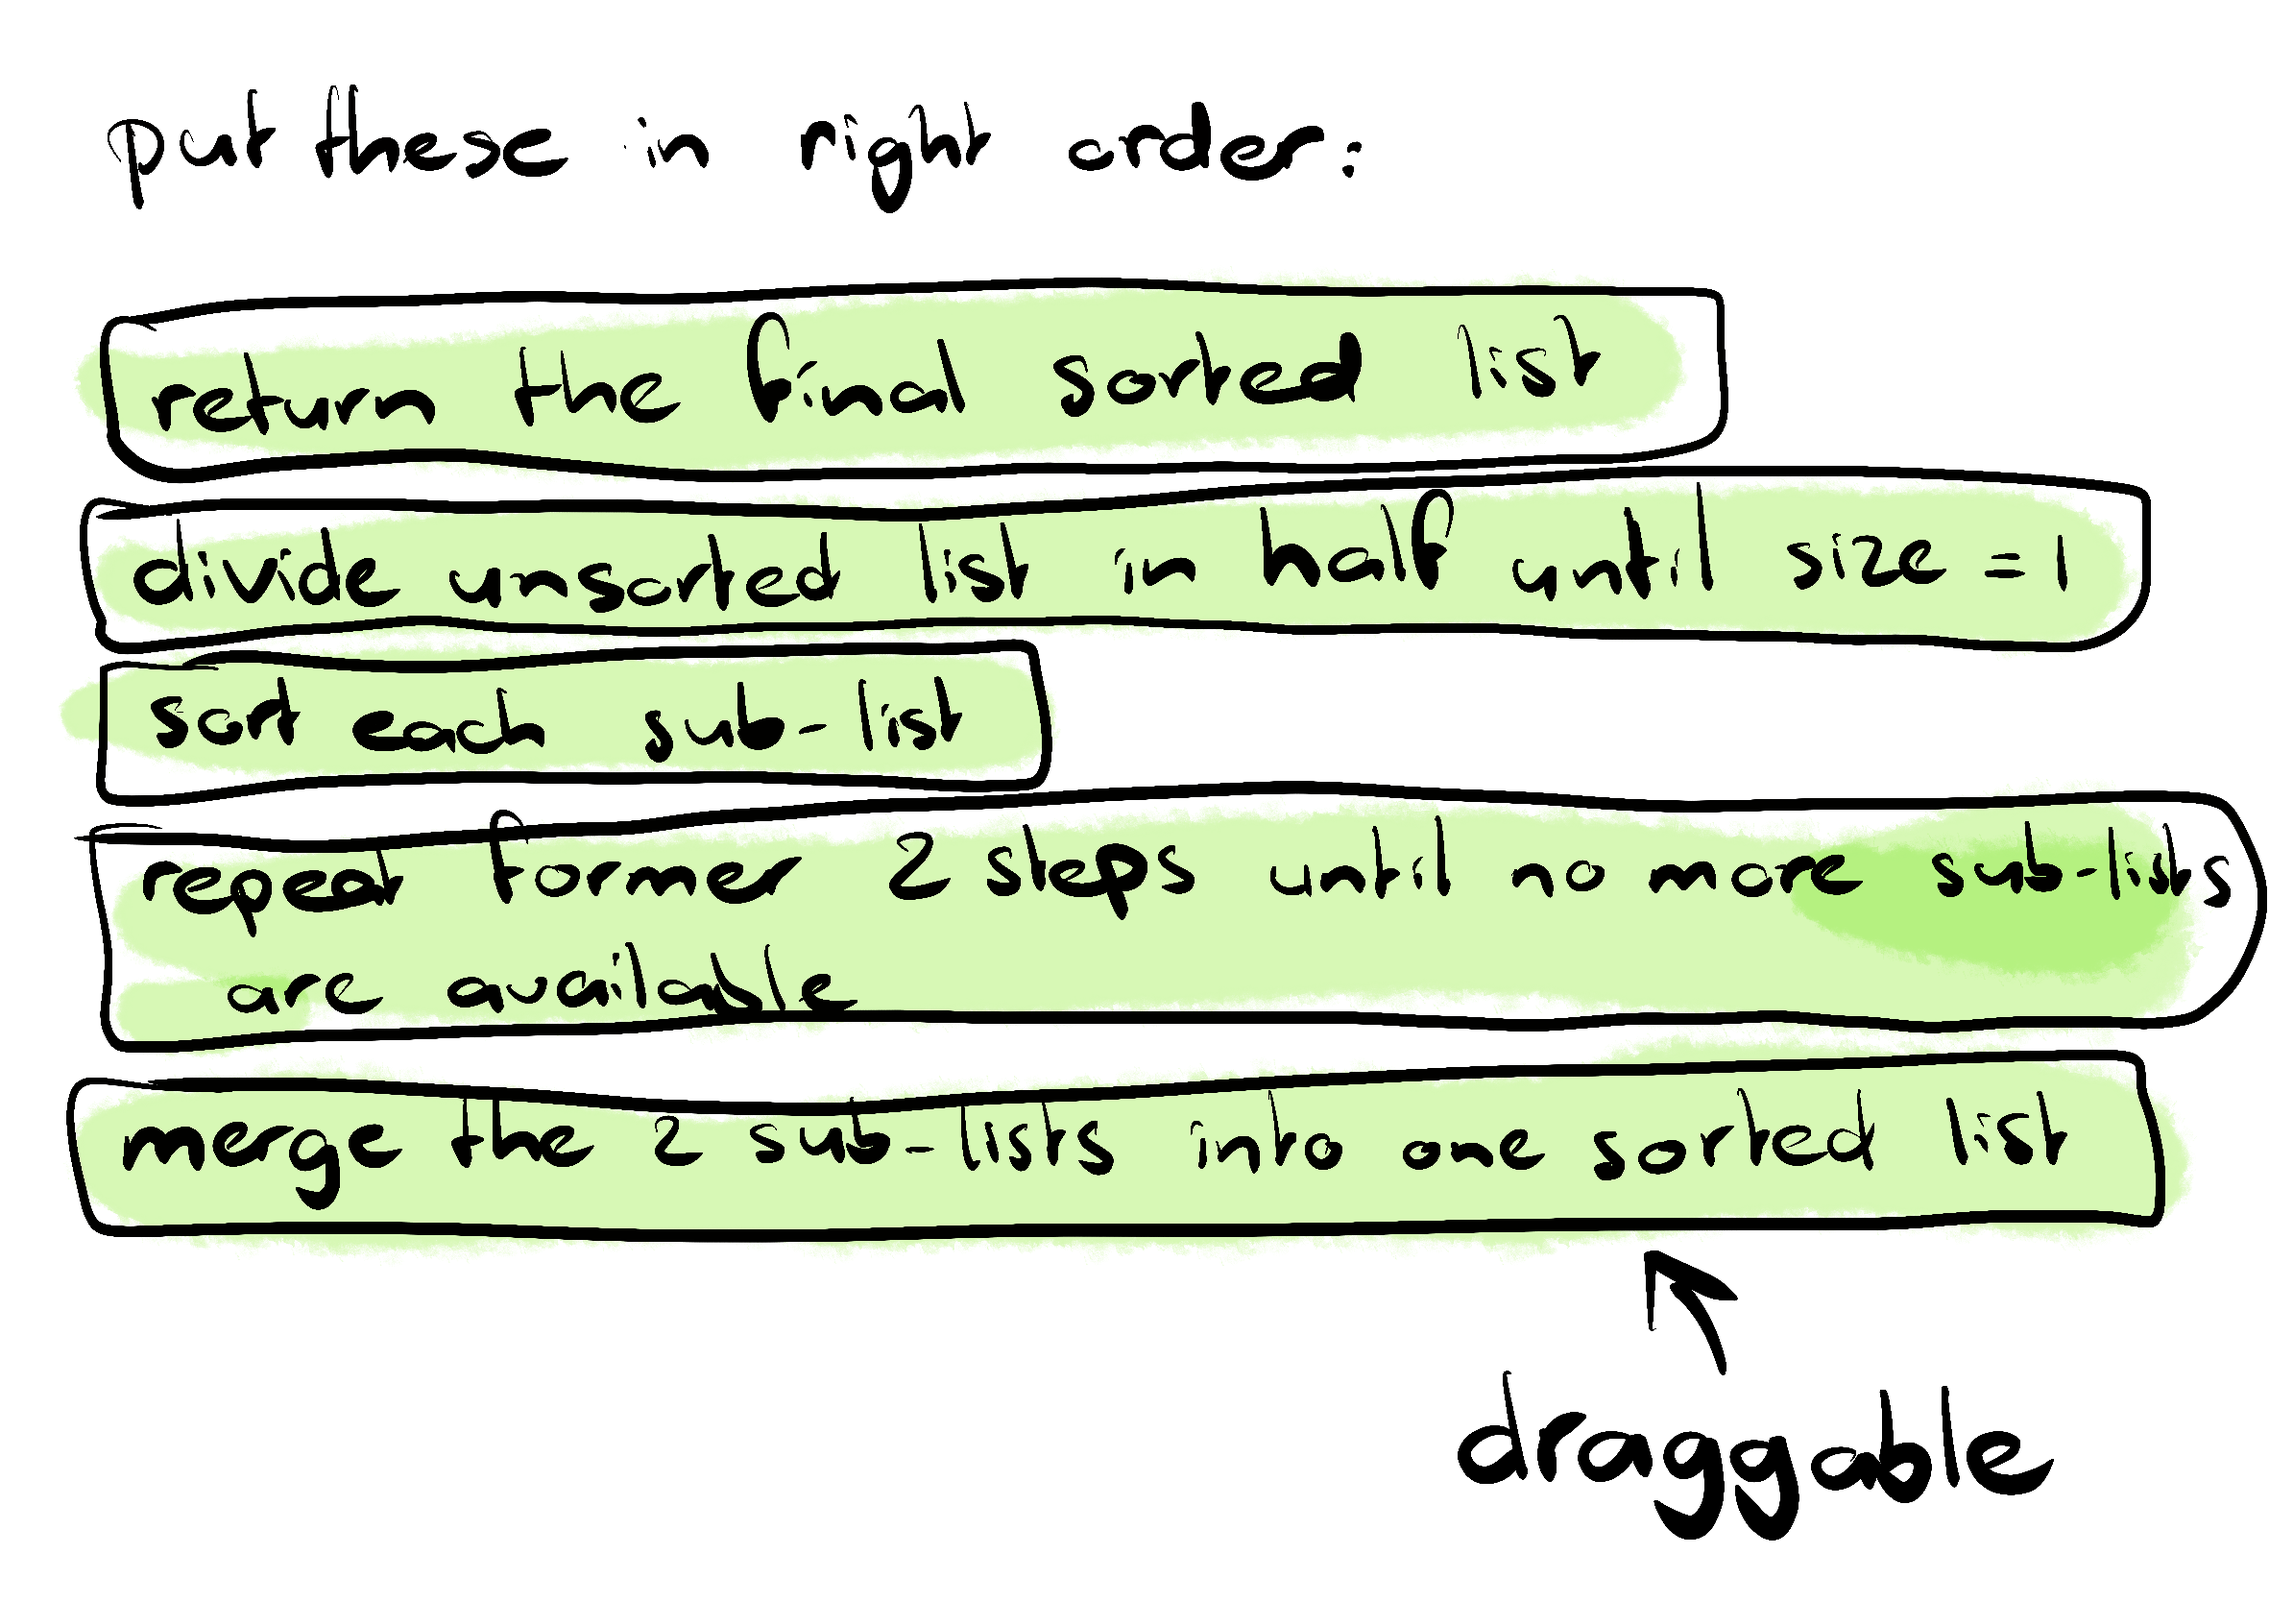
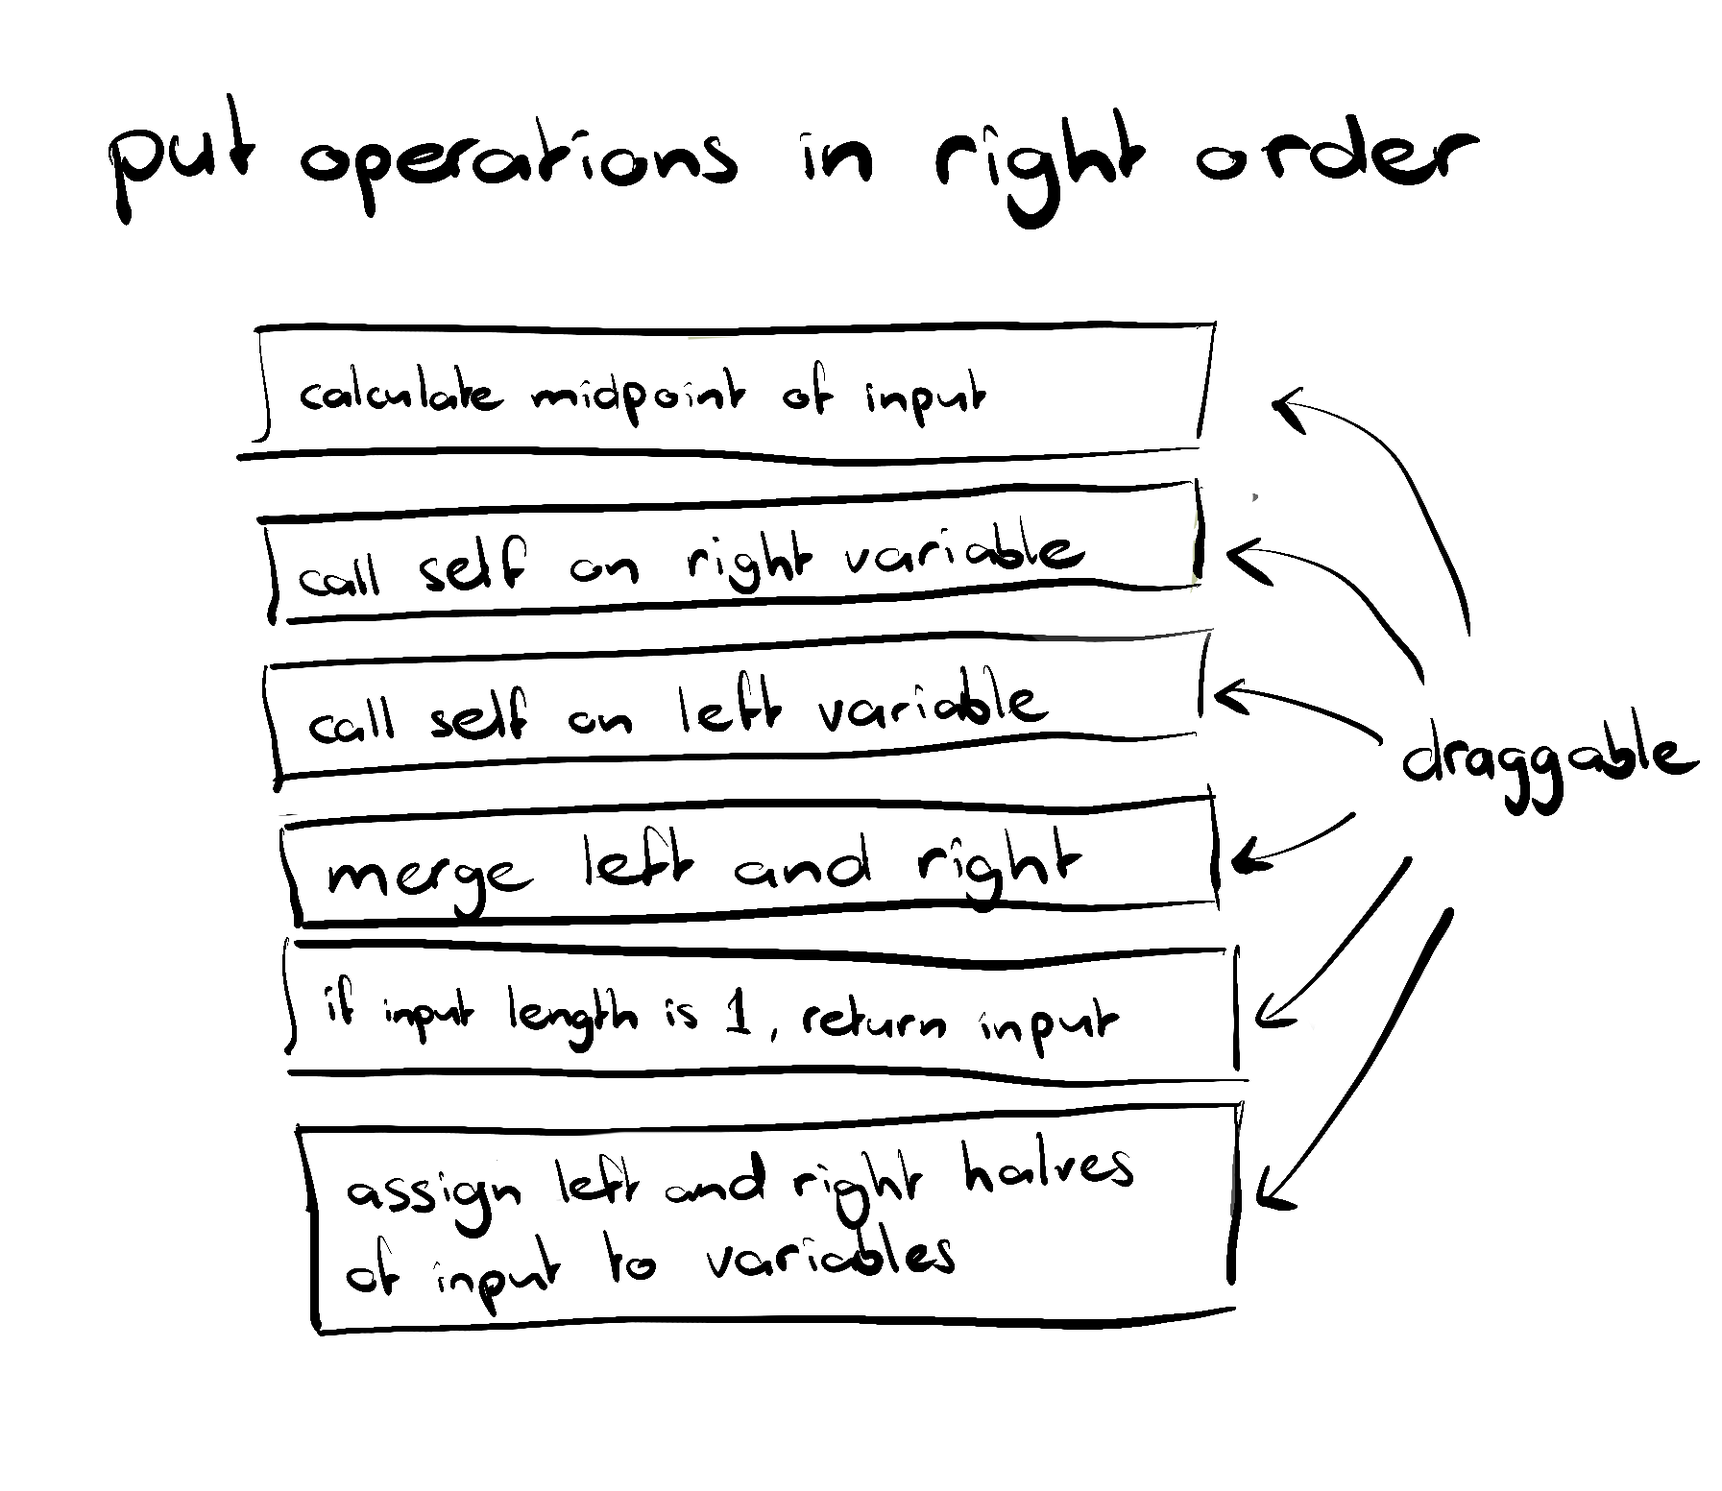
change example

diff --git a/index.html b/index.html
@@ -7,9 +7,9 @@
     <title>MergeSort Algorithm</title>
     <style>
         body { display: flex; flex-direction: column; align-items: center; font-family: 'Open Sans', sans-serif; margin: 0; }
-        .text, .text-content { font-size: 18px; text-align: center; }
+        .text, .text-content { font-size: 18px; text-align: left; }
         .images { display: flex; justify-content: center; align-items: center; flex-wrap: wrap; margin-bottom: 10px; }
-        .section { display: flex; flex-direction: column; align-items: center; width: 100%; margin-bottom: 20px; }
+        .section { display: flex; flex-direction: column; align-items: center; max-width: 100%; margin-bottom: 20px; margin-left: 50px; margin-right: 50px; }
         .inline-image, .larger-image { display: block; margin: 5px auto; max-width: 400px; max-height: 400px; }
         .images img { max-width: 700px; max-height: 700px; }
         .questions, .options { display: flex; flex-direction: column; }
@@ -32,7 +32,10 @@
         timerElement.textContent = `${minutes} minutes ${seconds} seconds elapsed`;
       }, 1000);
 
-      class TextSection {
+
+
+/*
+       class TextSection {
         constructor(text, images = [], largerImage = null) {
           this.text = text;
           this.images = images;
@@ -60,6 +63,37 @@
               img.classList.add("larger-image");
             }
             wrapper.appendChild(img);
+          });
+
+          return div;
+        }
+      }
+*/
+      class TextSection {
+        constructor(text, images = [], largerImage = null) {
+          this.text = text;
+          this.images = images;
+          this.largerImage = largerImage;
+        }
+
+        render() {
+          const div = document.createElement("div");
+          div.classList.add("section", "text");
+
+          const textDiv = document.createElement("p");
+          textDiv.innerHTML = this.text;
+          textDiv.classList.add("text-content");
+          div.appendChild(textDiv);
+
+          const imagesDiv = document.createElement("div");
+          imagesDiv.classList.add("images");
+          div.appendChild(imagesDiv);
+
+          this.images.forEach(image => {
+            const img = document.createElement("img");
+            img.src = image;
+            img.classList.add("inline-image");
+            imagesDiv.appendChild(img);
           });
 
           return div;
@@ -141,69 +175,113 @@
 
 
         const sections = [
-            new TextSection(`Tennis Titans is the hot new card game in town.<br>
-            Here are some cards of tennis players.
-            Give these players a power ranking from 1 to 8!`),
-            new ImageSection(["img/t2.png"]),
-            new TextSection(`The cards are out of order right now.
-            How would you sort the cards?`),
-            new ImageSection(["img/moveable.png"]),
-            new TextSection(`What you did is actually a pretty complex procedure.<br>
-            Maybe you started with the card with the lowest number, and placed it
+            new TextSection(`Mig the Moonlit Menace has found treasure!
+            A stack of eight chests,
+            to be precise. But there’s a problem. The treasure chests all look the
+            same. Mig wants to find out which chest is <b>heaviest</b>, so they
+            know which has the most diamonds. <br><br>
+            Luckily, Mig has a <b>scale</b> on his ship to compare two chests at a time.
+            `, ["img/mig-pirate.png"]),
+
+            new TextSection(`We've added the weights to the chests (don't tell Mig!)
+            Can you sort them in ascending order?
+            `, ["img/drag.png"]),
+
+            new TextSection(`It seems so easy, but what you did is probably not
+            as straightforward as it seems!<br>
+            Maybe you started with the chest with the lowest number, and placed it
             at the left.
-            Or maybe you started from the highest number.<br>
-            Or maybe you swapped cards around using some other criteria.
+            Or maybe you started from the highest number, or swapped cards around
+            using some other criteria.
             `),
+
             new TextSection(`
-            Sorting data is crucial to many programming tasks.
-            There are many different approaches to do it.<br><br>
+            If Mig were a naive pirate (which he isnt!), he could just compare
+            all chests to one another. The number of permutations for a list of
+            length n is n! (n factorial), which represents all possible orderings
+            of the elements.
+            `),
+
+            new MultipleChoiceSection(`If he would have to use brute force to
+              compare all 8 chests with
+              one another, how many permutations would Mig have to make?`
+              , ["24 permutations", "64 permutations", "40,320 permutations"], 1),
+
+
+            new TextSection(`
+            However, Mig doesn't have time to waste. There's more treasure out there!
+            So Mig wants to try a more clever approach.
             One of these approaches is called <b>merge sort</b>, and it's pretty cool.
-            To get an intuition for how it works, have a look at this animation.
+            Let's help Mig out.
             `),
-            new ImageSection(["img/droste.png"]),
+
             new TextSection(`
-            You might have seen this before.
-            It's called the Droste effect, and it's a form of <strong>recursion</strong>.
-            Here, it's an image with smaller versions of itself inside.
-            `),
-            new TextSection(`
-            Let's go back to our tennis cards. One way to sort them could be by breaking
-            the problem up in smaller parts.
-            This is sometimes called a <strong>divide and conquer</strong> approach.<br><br>
-            For instance, let's say we'd split up our list in two equal parts.
-            We compare each card
-            in the split lists, and put the largest one back in the original list.
+            Merge sort breaks the problem up in smaller parts.
+            This is sometimes called a <strong>divide and conquer</strong> approach.
+            Mig likes the sound of that!<br><br>
+
+            For instance, let's say we'd split up our chests right down the middle,
+            into two equal sub-stacks.<br>
+            <ul>
+            <li>We begin comparing the chests in both sub-stacks, starting on the left of both.</li>
+            <li>The lightest chest of the two is moved back to the original stack.</li>
+            <li>We then move to the next chest in the sub-stack we just removed a chest from.</li>
+            </ul>
             Try it now!
+
             `),
-            new ImageSection(["img/layer1.png"]),
+
+            // change to chests
+            new ImageSection(["img/layer1-1.png"]),
+            new ImageSection(["img/layer1-2.png"]),
+            new ImageSection(["img/layer1-3.png"]),
+
             new TextSection(`
-            The act of comparing and putting the cards back is called <b>merging</b>.
+            In merge sort,
+            the act of comparing and putting the chests back is called <b>merging</b>.<br><br>
             We're getting closer to solving the problem.<br>
             However, it's not perfect. After all, we're not always comparing the
-            right cards.
-            We can keep splitting the lists up until we can't go any further.<br><br>
-            It's a bit like a tournament bracket--every time two players encounter
-            each other, their power level determines how they will be sorted.
-            `),
-            new ImageSection(["img/layerall.png"]),
-
-            new TextSection(`
-            Sweet! Splitting up the problem has solved it.
-            The tennis players have been sorted based on their power ranking.
+            right chests.
+            But we don't have to stop here! We can keep splitting the chests
+            until we can't go any further.<br><br>
             `),
 
+            new ImageSection(["img/layerall-1.png"]),
+
             new TextSection(`
+            Great job! We sorted, then merged the treasure chests based on their weights!
+            "Merging" actually just means to put the chests back into a stack
+            in the right order.
+            `),
+            new TextSection(`
+            What we're doing has a fancy term: <b>recursion</b>.
+            We basically split up the problem into smaller versions of itself.
+            `),
+
+            new TextSection(`
+            Recursion happens a lot in programming.
             If we would code this, we could create a function that repeats itself
-            when splitting and merging.
+            when splitting and merging.<br><br>
+            The code would first check the length of our input. If it's more than 1,
+            it will find the midpoint, split the input in half, and <b>invoke itself</b>
+            on each of the halves.
             `),
 
-            new ImageSection(["img/order.png"]),
+            new TextSection(`
+            Try to put the following pseudo-code in order.
+            Note that this is just the part of the code that splits up our list into sub-lists!
+            `, ["img/Order.png"]),
 
             new TextSection(`
-            Note the "repeat steps" part of the code. This is recursion at work!
+            Note the "call self" part of the code. This is called <b>recursion</b>.
             When we write this in code, we write a function that calls itself.
             `),
-            new ImageSection(["img/droste-2.png"]),
+
+            new ImageSection(["img/Order2.png"]),
+            new ImageSection(["img/Order3.png"]),
+            new ImageSection(["img/Order4.png"]),
+            new ImageSection(["img/Order5.png"]),
+
 
             new TextSection(`
             This is recursion in code! A function that calls itself in order to
@@ -211,14 +289,23 @@
             `),
 
             new TextSection(`
-            "Merging" actually just means to put the cards back into a new array
-            in the right order.
+            If we want to get a better intuition of what happens when we code this,
+            we can <b>print out</b> the lists as they are created.
+            `,["img/print.png"]),
+
+            new MultipleChoiceSection("If we would print the left variable each time, what would the output be?", ["24 times", "48 times", "64 times"], 1),
+
+            new TextSection(`
             Have a look at all the operations we did again.
-            In total, we merge 8 + 8 + 8 = 24 times.
+            In total, we merge 8 + 8 + 8 = 24 times.<br><br>
+            Recall that this is only slightly better than the 28 combinations
+            we would need to do if we would just compare all chests.<br><br>
+            However, if we start scaling this problem up, things start to look different.
             `),
+
             new ImageSection(["img/counter.png"]),
 
-            new MultipleChoiceSection("How often would we merge if we had 16 cards?", ["24 times", "48 times", "64 times"], 1),
+            new MultipleChoiceSection("How often would we merge if we had 16 chests?", ["24 times", "48 times", "64 times"], 1),
 
             new TextSection(`
             It turns out merge sort is a relatively efficient sorting algorithms.
@@ -245,22 +332,22 @@
             new TextSection(`
             In general, the time complexity of merge sort is O(n log n), which
             means that the time it takes to sort a list of size n grows
-            logarithmically with n.  <br><br>
+            logarithmically with n.<br><br>
 
-            For n = 4, the time complexity of merge sort is O(log n) or O(2).<br>
-            For n = 8, the time complexity of merge sort is O(3).<br>
-            For n = 16, the time complexity of merge sort is O(4).<br>
-            For n = 32, the time complexity of merge sort is O(5).<br>
-            For n = 64, the time complexity of merge sort is O(6).<br>
-            For n = 128, the time complexity of merge sort is O(7).<br>
-            `),
+            This process of dividing the list in half is logarithmic in nature,
+            as each division reduces the number of elements by half!`
+            ,["img/log.png"]),
 
+            new TextSection(`Note that we're only assuming that n is always even
+            to make things simple and to work with even sub-lists. However,
+            merge sort also works with odd lengths of n.`,["img/scale.png"]),
 
-            new ImageSection(["img/graph.png"]),
+            new TextSection(`Sorting algorithms come in all kinds of complexity.
+            Here's a few!`,["img/graph.png"]),
 
             new TextSection(`
             In the next lesson you will learn about some ways to improve the
-            efficiency of merge sort, which is still used in programming languages
+            efficiency of <b>merge sort</b>, which is still used in programming languages
             like Python every day!
             `),
 

diff --git a/README.md b/README.md
@@ -1,1 +1,3 @@
 # mergesort
+
+Merge Sort lesson.
